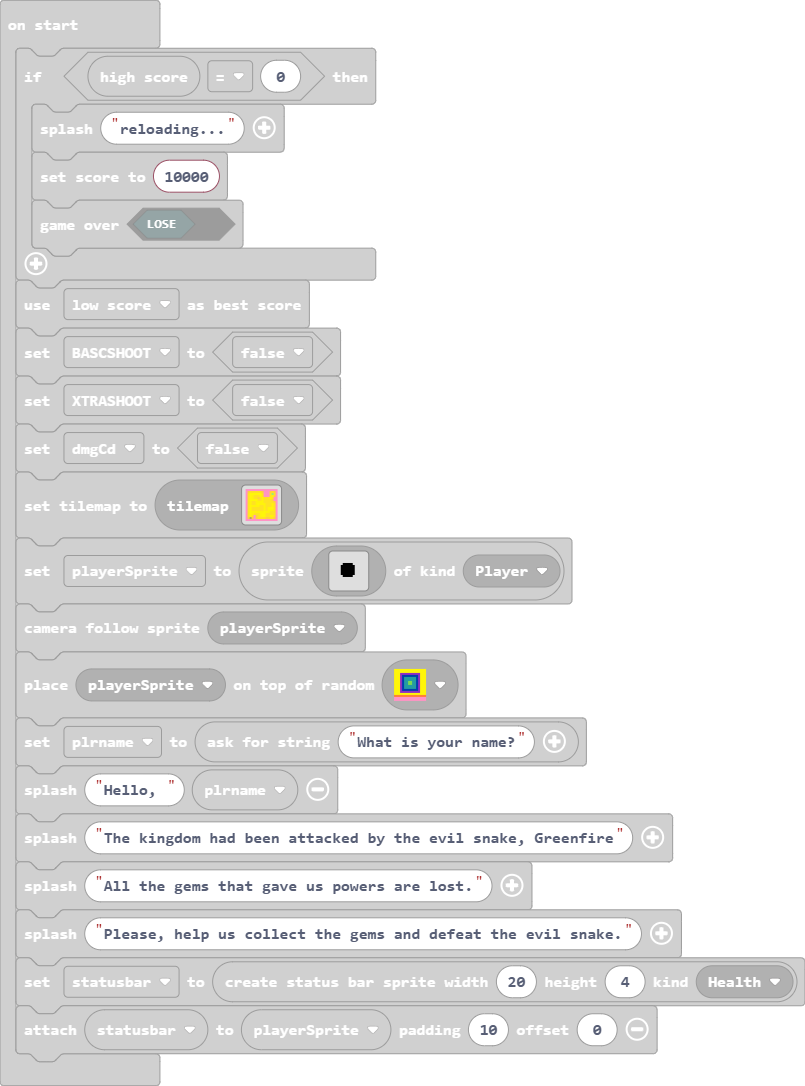
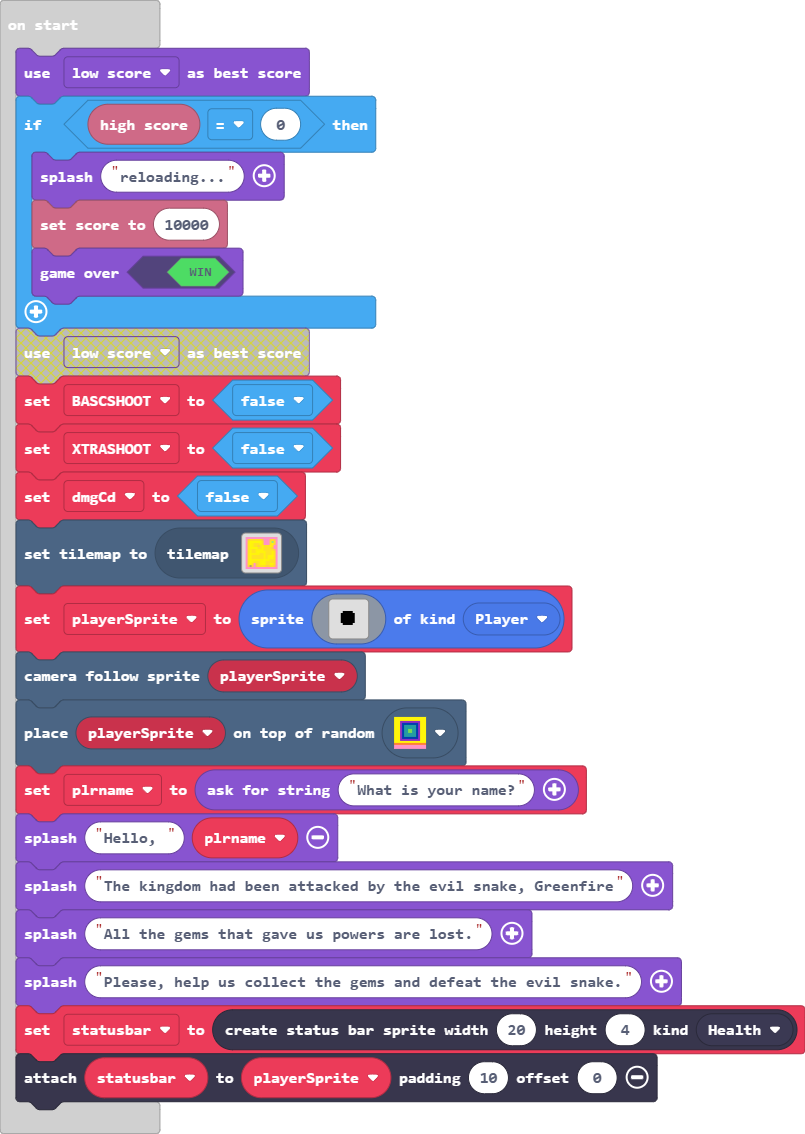
Update main.blocks, main.ts, tilemap.g.jres, tilemap.g.ts

diff --git a/tilemap.g.ts b/tilemap.g.ts
@@ -376,6 +376,25 @@ namespace myTiles {
 . . . . . . . . . . . . . . 
 . . . . . . . . . . . . . . 
 `, [myTiles.transparency16,myTiles.tile1,myTiles.tile2,myTiles.tile3,myTiles.tile4,myTiles.tile5,myTiles.tile7,myTiles.tile8,myTiles.tile9,myTiles.tile10,myTiles.tile11,myTiles.tile14,myTiles.tile15,myTiles.tile16,myTiles.tile17,myTiles.tile22,myTiles.tile6,myTiles.tile12,myTiles.tile23], TileScale.Sixteen);
+            case "level20":
+            case "level20":return tiles.createTilemap(hex`1000100000000000000000000000000000000000000000000000000000000000000000000000000000000000000000000000000000000000000000000000000000000000000000000000000000000000000000000000000000000000000000000000000000000000000000000000000000000000000000000000000000000000000000000000000000000000000000000000000000000000000000000000000000000000000000000000000000000000000000000000000000000000000000000000000000000000000000000000000000000000000000000000000000000000000000000000000000000000000000000000000000000000000000000000000000000000`, img`
+. . . . . . . . . . . . . . . . 
+. . . . . . . . . . . . . . . . 
+. . . . . . . . . . . . . . . . 
+. . . . . . . . . . . . . . . . 
+. . . . . . . . . . . . . . . . 
+. . . . . . . . . . . . . . . . 
+. . . . . . . . . . . . . . . . 
+. . . . . . . . . . . . . . . . 
+. . . . . . . . . . . . . . . . 
+. . . . . . . . . . . . . . . . 
+. . . . . . . . . . . . . . . . 
+. . . . . . . . . . . . . . . . 
+. . . . . . . . . . . . . . . . 
+. . . . . . . . . . . . . . . . 
+. . . . . . . . . . . . . . . . 
+. . . . . . . . . . . . . . . . 
+`, [myTiles.transparency16], TileScale.Sixteen);
         }
         return null;
     })

diff --git a/main.ts b/main.ts
@@ -465,12 +465,12 @@ let playerSprite: Sprite = null
 let dmgCd = false
 let XTRASHOOT = false
 let BASCSHOOT = false
+game.setGameOverScoringType(game.ScoringType.LowScore)
 if (info.highScore() == 0) {
     game.splash("reloading...")
     info.setScore(10000)
-    game.gameOver(false)
+    game.gameOver(true)
 }
-game.setGameOverScoringType(game.ScoringType.LowScore)
 BASCSHOOT = false
 XTRASHOOT = false
 dmgCd = false
